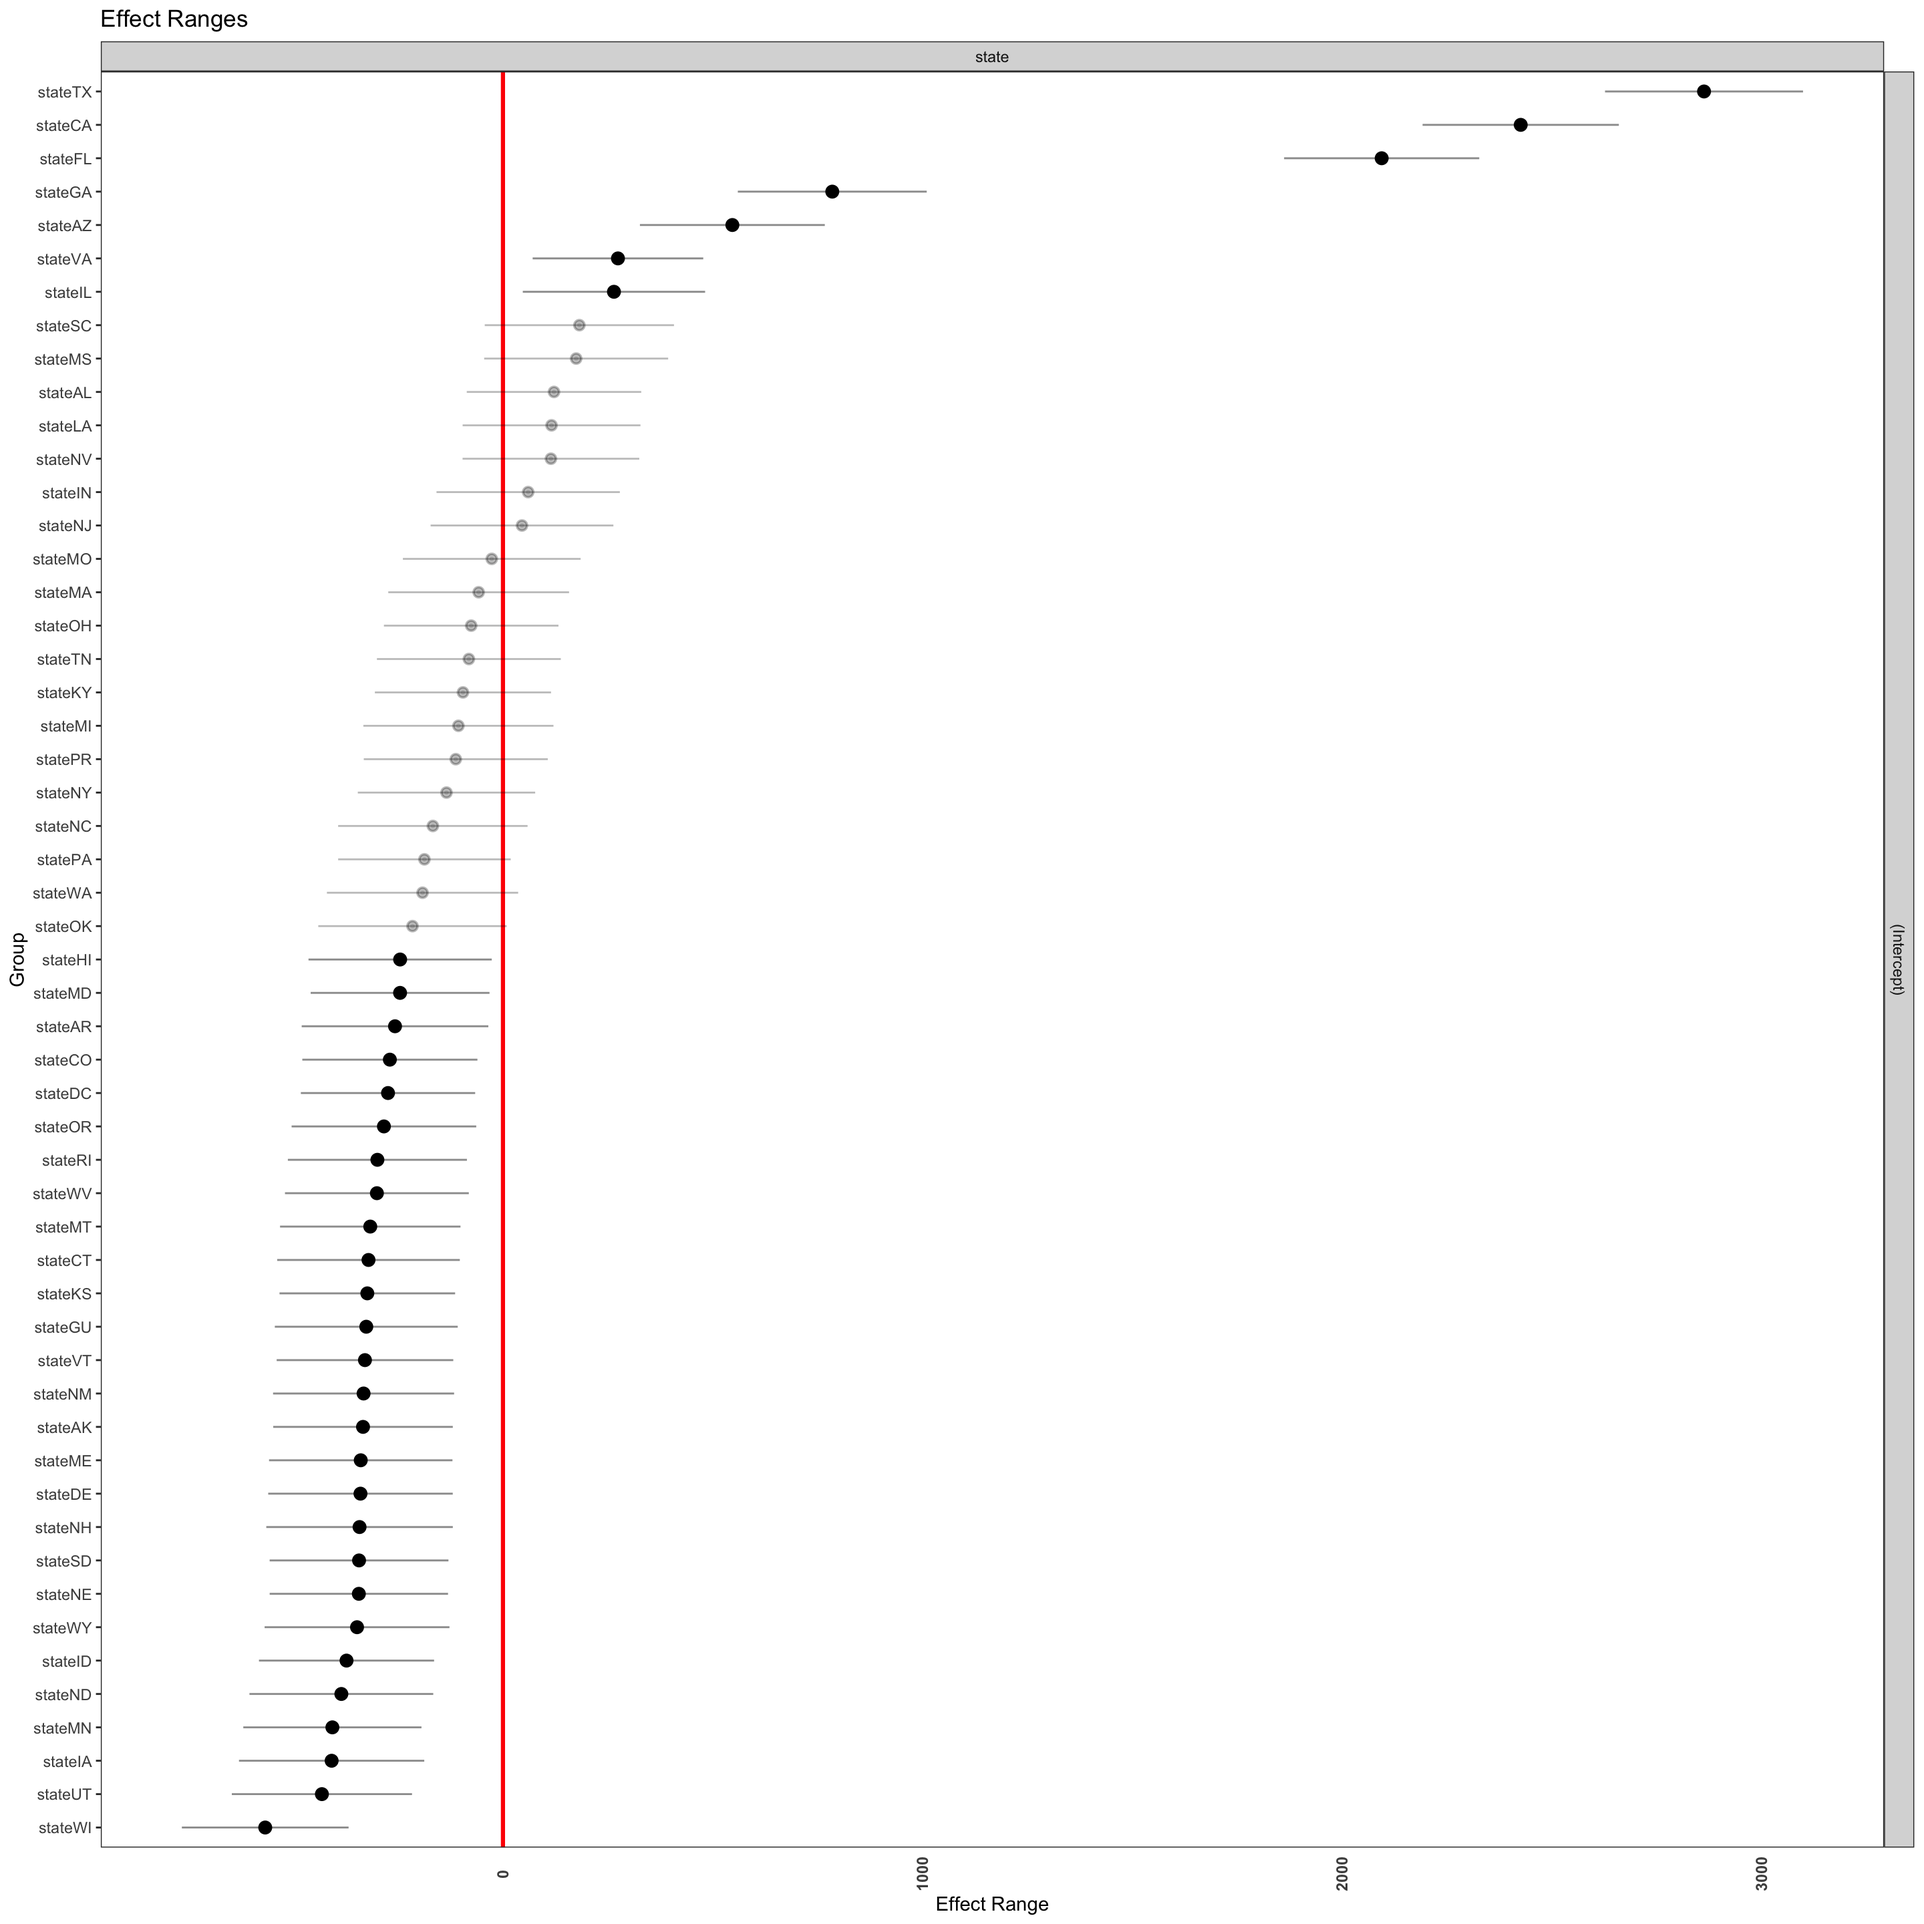
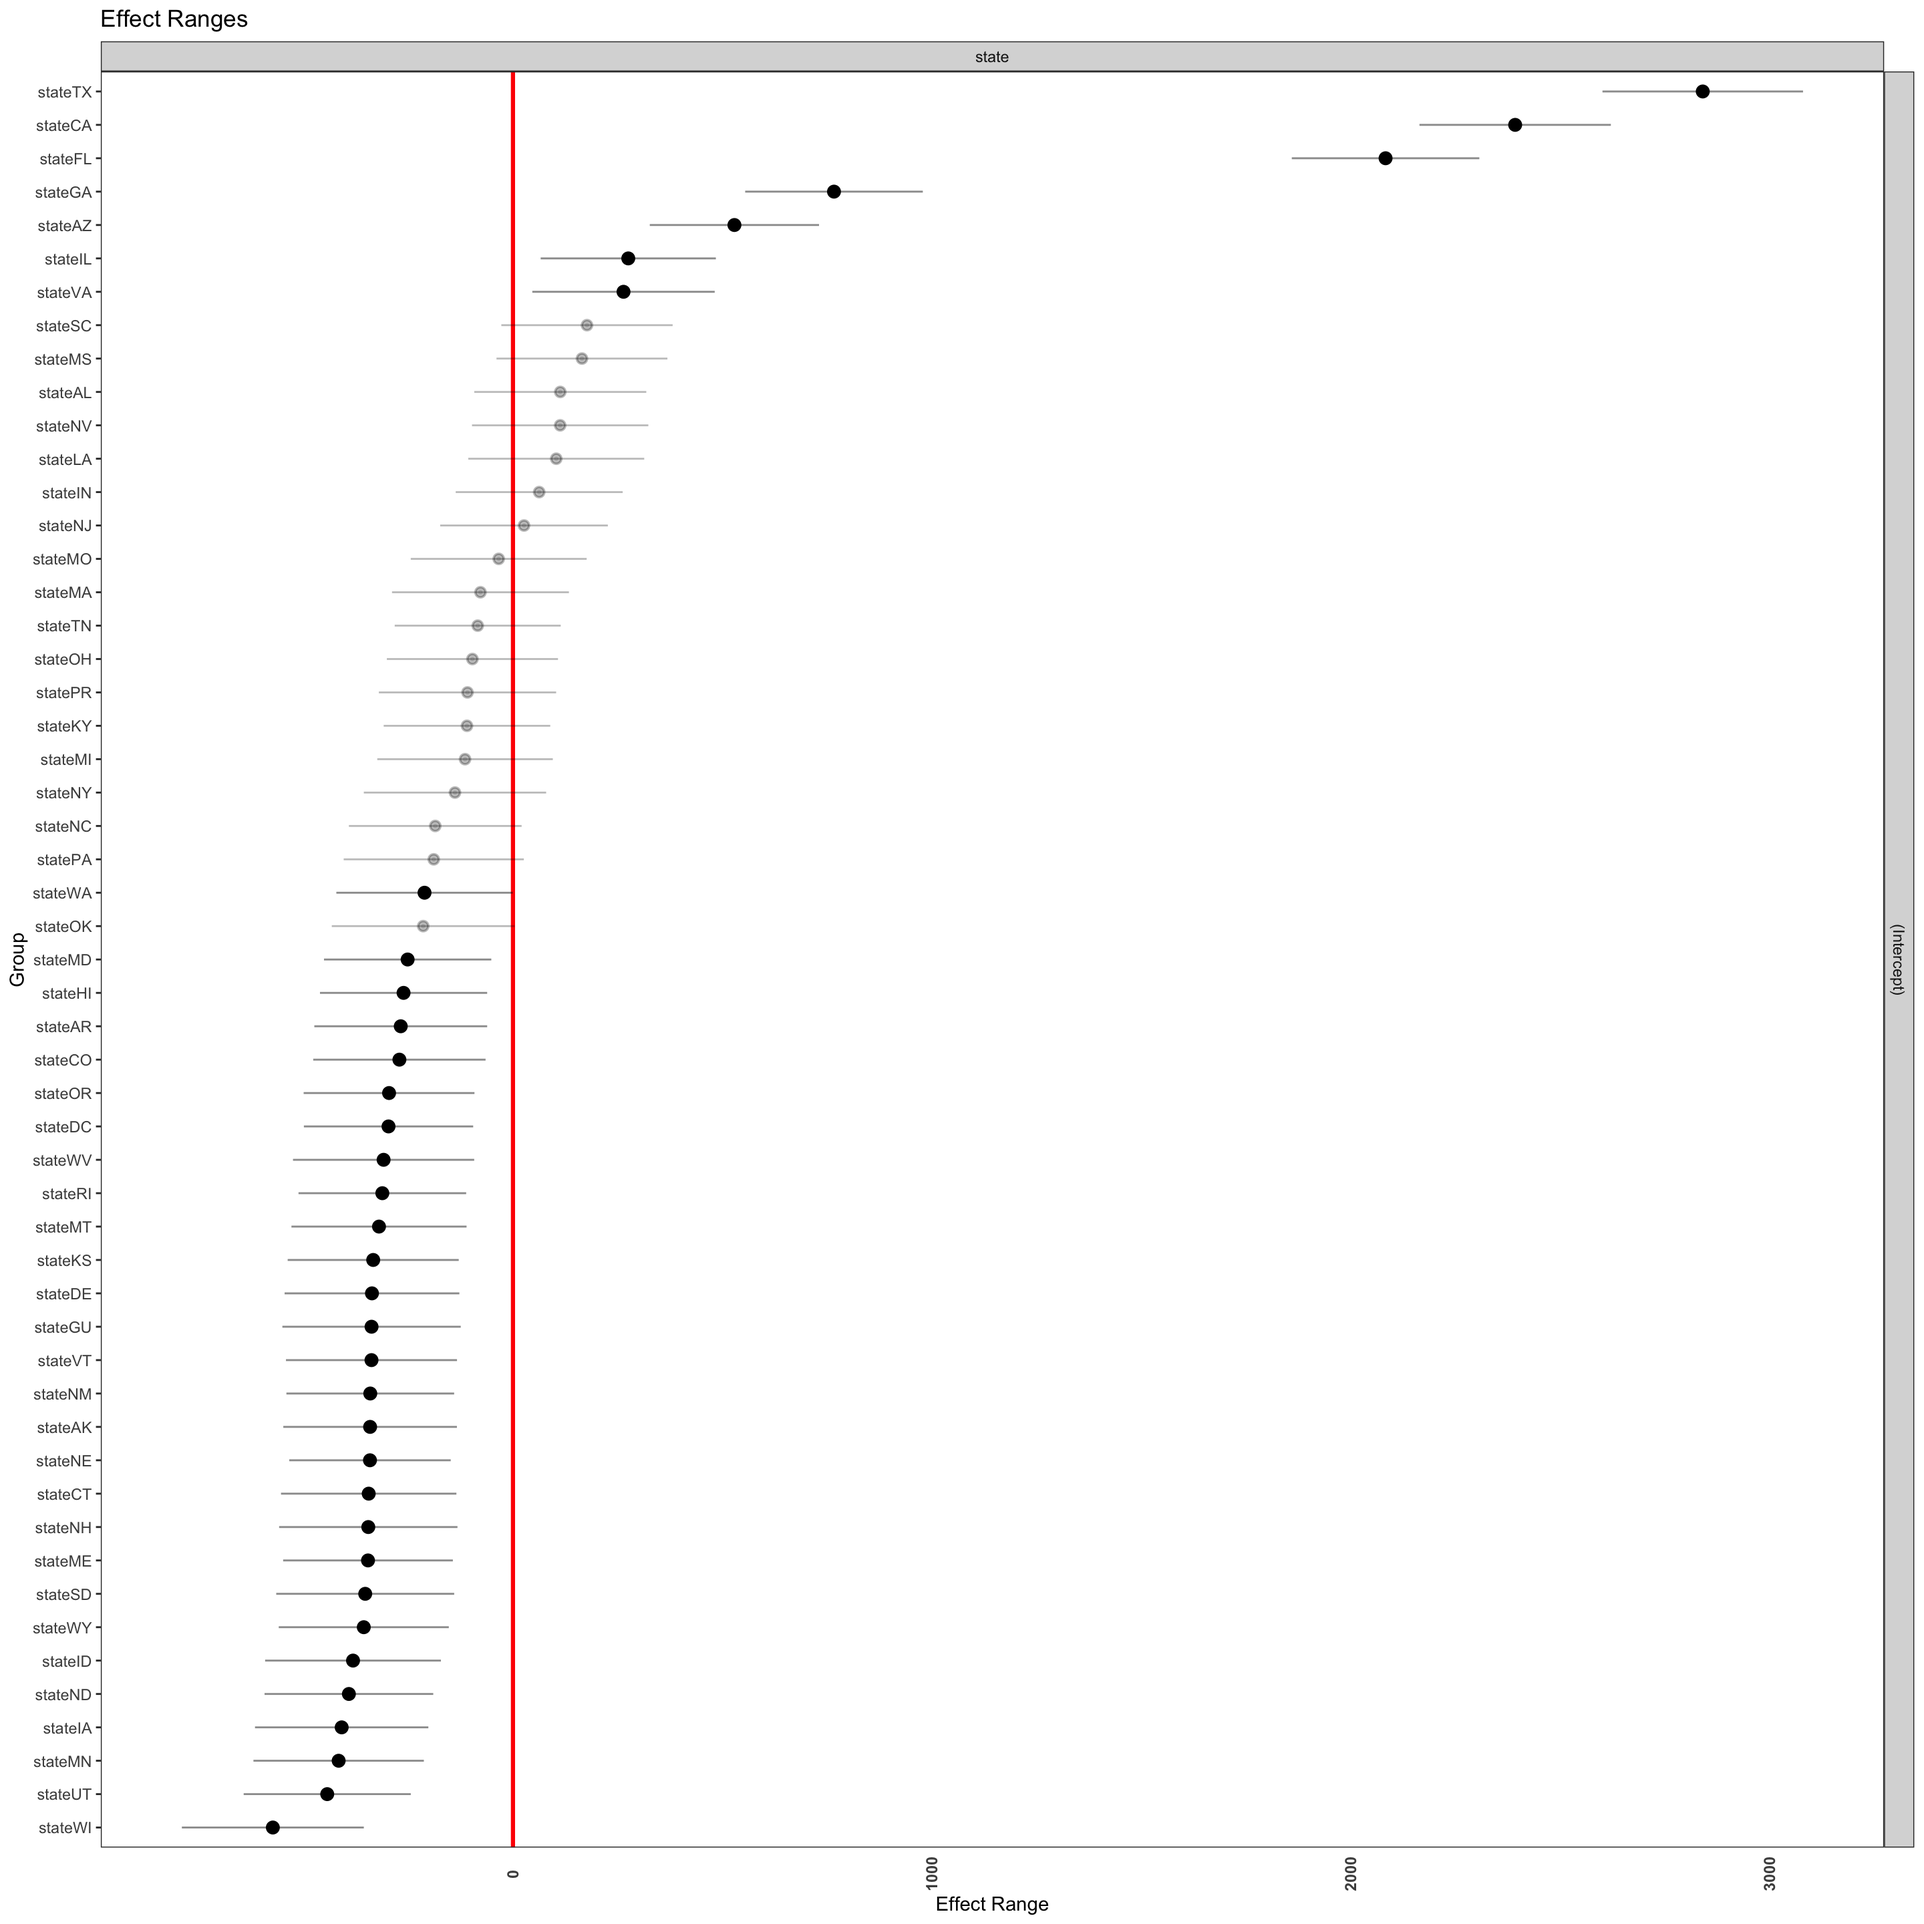
small updates

diff --git a/docs/12-PanelData.html b/docs/12-PanelData.html
@@ -1175,8 +1175,8 @@ Some predictor variables are on very different scales: consider rescaling</code>
 <span id="cb86-2"><a href="#cb86-2" aria-hidden="true" tabindex="-1"></a><span class="fu">head</span>(feEx)</span></code><button title="Copy to Clipboard" class="code-copy-button"><i class="bi"></i></button></pre></div>
 <div class="cell-output cell-output-stdout">
 <pre><code>              term        mean      median           sd
-1      (Intercept) 326.9363694 325.5137486 92.118396290
-2 positiveIncrease   0.5314356   0.5314092  0.007638408</code></pre>
+1      (Intercept) 320.9172921 323.2872460 92.223569908
+2 positiveIncrease   0.5319686   0.5317333  0.007830214</code></pre>
 </div>
 <div class="sourceCode cell-code" id="cb88"><pre class="sourceCode r code-with-copy"><code class="sourceCode r"><span id="cb88-1"><a href="#cb88-1" aria-hidden="true" tabindex="-1"></a><span class="fu">plotFEsim</span>(feEx) <span class="sc">+</span></span>
 <span id="cb88-2"><a href="#cb88-2" aria-hidden="true" tabindex="-1"></a>  <span class="fu">theme_bw</span>() <span class="sc">+</span> </span>
@@ -1352,11 +1352,11 @@ Try on your own, then expand to see the authors’ approach.
 <p>For information on rare events logits, as a special form of the logit model, see <a href="https://gking.harvard.edu/files/0s.pdf">here</a>, a response <a href="https://statisticalhorizons.com/logistic-regression-for-rare-events">here</a>, and R code <a href="http://docs.zeligproject.org/articles/zelig_relogit.html">here</a>.</p>
 <p>They also analyze the amount given by transforming the variable into an incremental count outcome. “Because donations tend to be given in $50 increments, we use a rank-ordered variable that equals 0 for $0, 1 for $1–$49, 2 for $50–$99, and so on. Supplemental Table A9 shows that the results are robust to using the exact dollar amount, a rank based on $100 increments, and one based on $500 increments. Because donations are capped at $5,000, all of these dependent variables reflect this maximum. Moreover, as with the probability of donating, there is an overdispersion of zeros representing cases where a donor did not give to a senator. We accordingly use a zero-inflated negative binomial regression model for analyses of the amount donated. Additionally, for purposes of comparison, we show results for Tobit specifications.”</p>
 <ul>
-<li>We discussed zero-inflated models in section <a href="https://ktmccabe.github.io/mlebook/how-to-think-about-zero-counts.html">10.9.2</a></li>
-<li>We discussed Tobit models in <a href="https://ktmccabe.github.io/mlebook/truncated-models.html">11.4</a></li>
+<li>We discussed zero-inflated models in section <a href="https://ktmccabe.github.io/mle23/how-to-think-about-zero-counts.html">Section 10</a></li>
+<li>We discussed Tobit models in <a href="https://ktmccabe.github.io/mle23/truncated-models.html">Section 11</a></li>
 </ul>
-<p>In our live discussion, we came up with several different possibles approaches, frequently using binary logistic regression with <code>donation</code> as the outcome or a linear model with <code>total_donation</code> as the outcome. Some suggested specifications also included fixed effects for the donors using the <code>plm</code> package and fitting a <code>within</code> model. Finally, we explored using random effects in <code>plm</code> or <code>lme4</code>, though the <code>lme4</code> approach appeared very stressful for our computers!</p>
-<p>Overall, we came up with consistent support for the positive relationship between policy agreement and giving to campaigns. Here are a few approaches developed:</p>
+<p>We can come up with several different possibles approaches, frequently using binary logistic regression with <code>donation</code> as the outcome or a linear model with <code>total_donation</code> as the outcome. Some may suggest specifications also included fixed effects for the donors using the <code>plm</code> package and fitting a <code>within</code> model. Finally, we explored using random effects in <code>plm</code> or <code>lme4</code>, though the <code>lme4</code> approach appeared very stressful for our computers!</p>
+<p>Here are a few approaches developed:</p>
 <div class="cell">
 <div class="sourceCode cell-code" id="cb95"><pre class="sourceCode r code-with-copy"><code class="sourceCode r"><span id="cb95-1"><a href="#cb95-1" aria-hidden="true" tabindex="-1"></a>fit <span class="ot">&lt;-</span> <span class="fu">glm</span>(donation <span class="sc">~</span> peragsen <span class="sc">+</span> </span>
 <span id="cb95-2"><a href="#cb95-2" aria-hidden="true" tabindex="-1"></a>             terms <span class="sc">+</span> same_state <span class="sc">+</span> </span>
